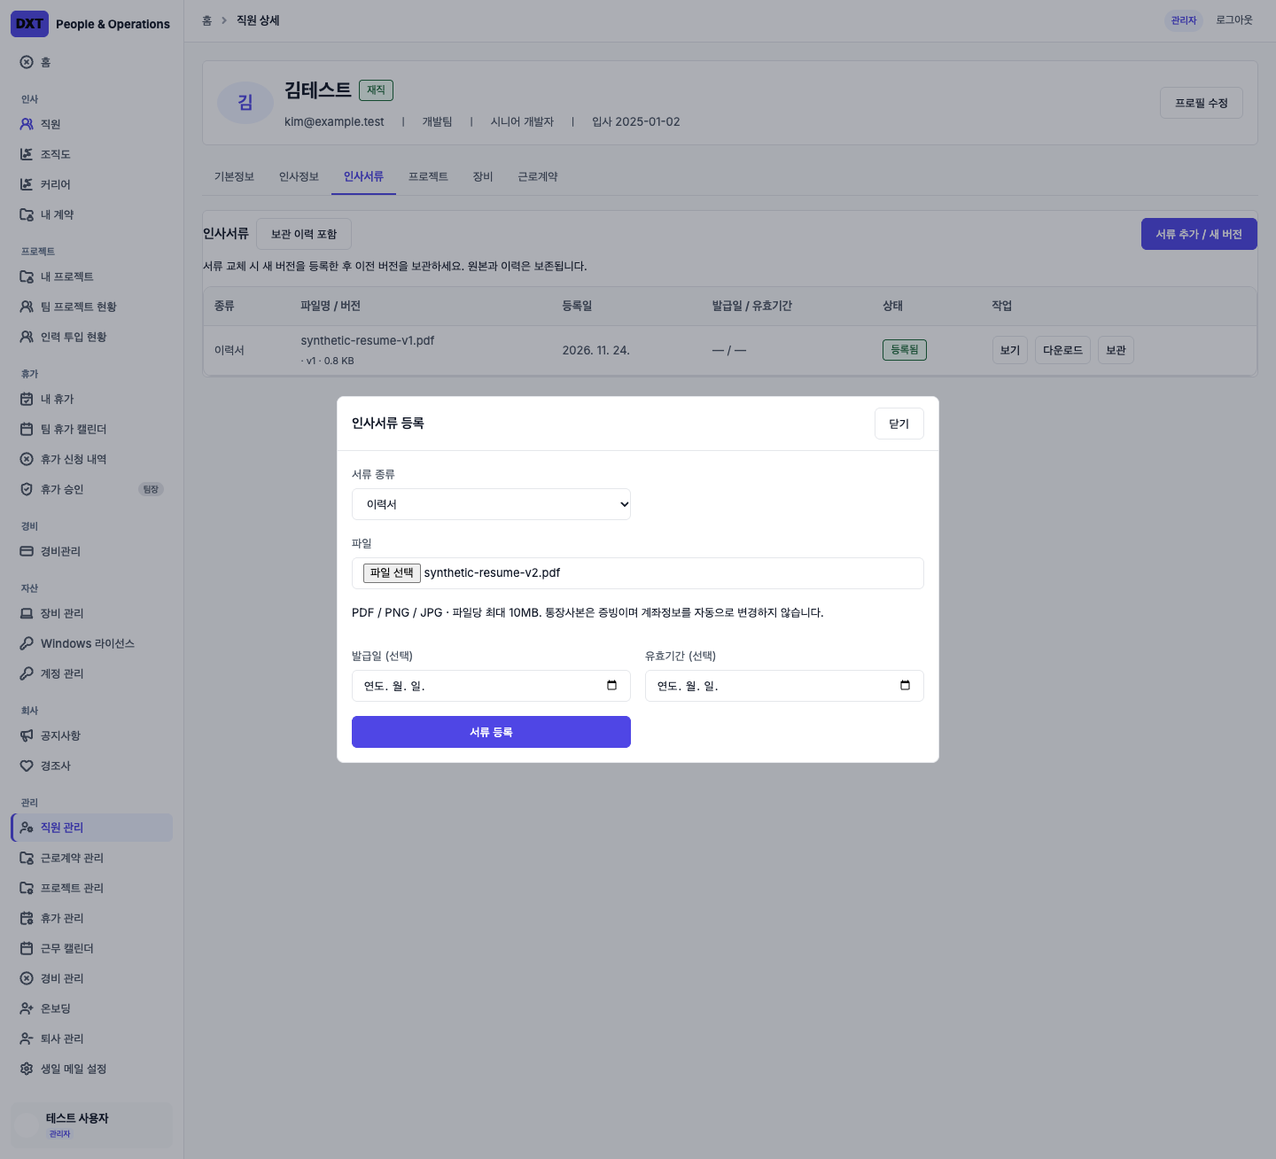
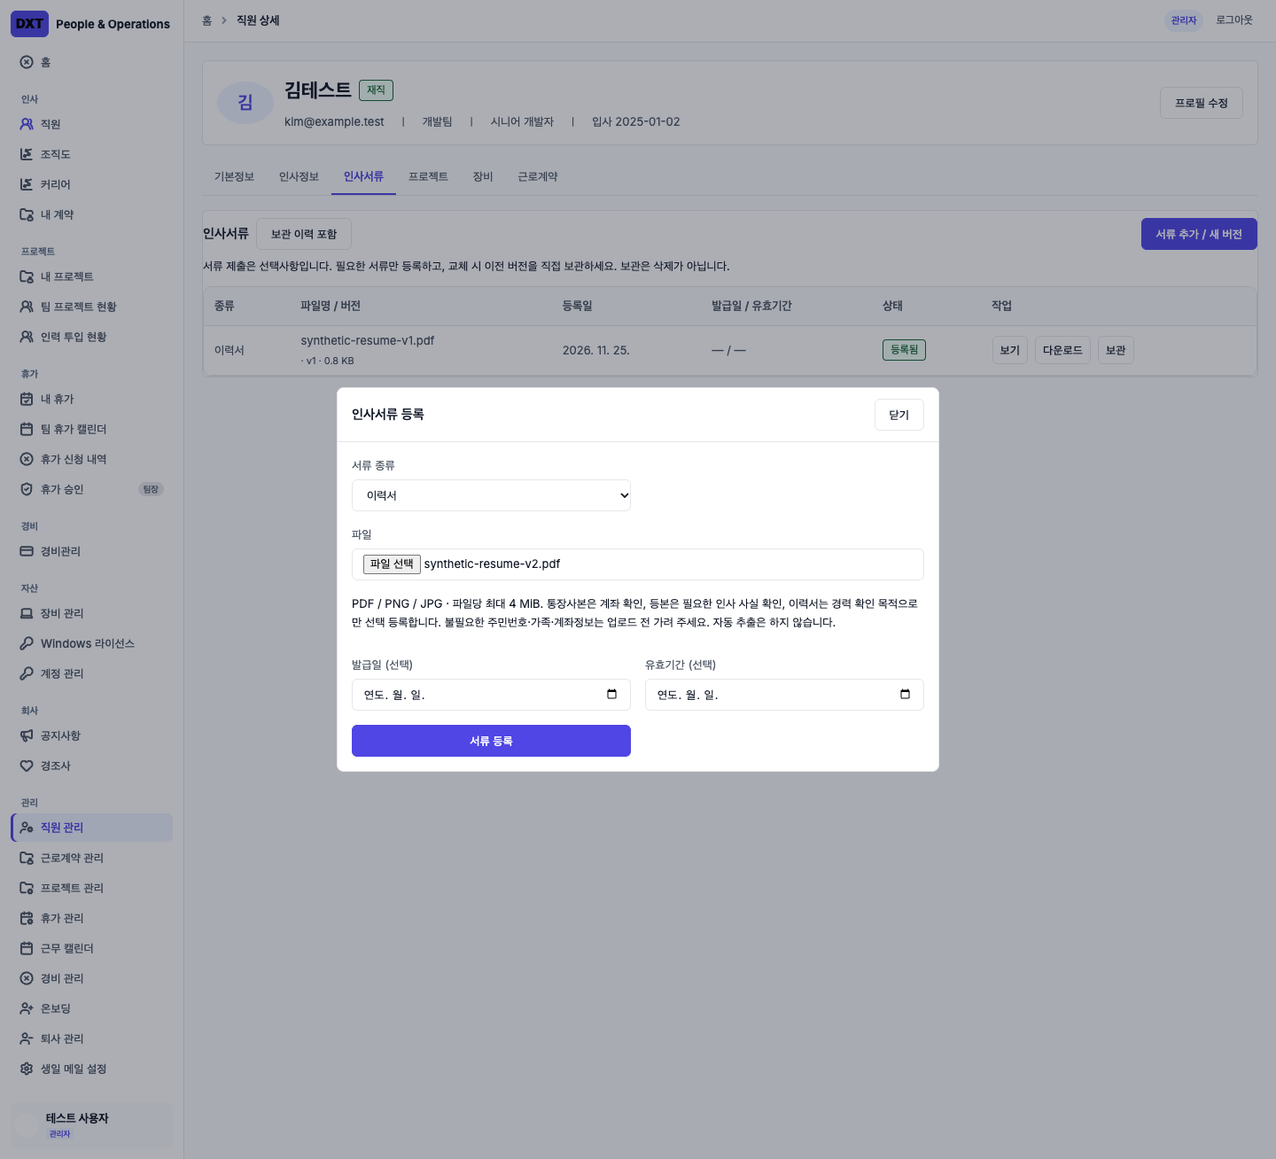
fix: enforce optional HR document collection and 4 MiB boundary

diff --git a/src/components/hr-documents/panel.tsx b/src/components/hr-documents/panel.tsx
@@ -5,19 +5,22 @@ import {useFormStatus} from 'react-dom';
 import {SectionCard,DataTable,StatusTag} from '@/components/ui/primitives';
 import {Modal,WorkToolbar} from '@/components/ui/workspace';
 import {uploadHrDocument,archiveHrDocument} from '@/app/actions/hr-documents';
-import {DOCUMENT_TYPES,type HrDocument} from '@/lib/hr-documents/types';
+import {DOCUMENT_TYPES,MAX_DOCUMENT_BYTES,DOCUMENT_SIZE_MESSAGE,type HrDocument} from '@/lib/hr-documents/types';
 function Submit({children,primary=true}:{children:React.ReactNode;primary?:boolean}){const {pending}=useFormStatus();return <button className={`button ${primary?'primary':''}`} disabled={pending}>{pending?'처리 중…':children}</button>;}
 function Archive({id}:{id:string}){const [state,action]=useActionState(archiveHrDocument,{});return <form action={action}><input type="hidden" name="document_id" value={id}/><Submit primary={false}>보관</Submit>{state.error&&<p role="alert">{state.error}</p>}{state.success&&<p role="status">{state.success}</p>}</form>;}
 export function HrDocumentsPanel({employeeId,documents,manage,history,base}:{employeeId:string;documents:HrDocument[];manage:boolean;history:boolean;base:string}){
  const [open,setOpen]=useState(false);
  return <SectionCard className="hr-documents"><WorkToolbar label="인사서류 작업" actions={manage&&<button className="button primary" onClick={()=>setOpen(true)}>서류 추가 / 새 버전</button>}><h2>인사서류</h2>{manage&&<Link className="button" href={`${base}?tab=documents${history?'':'&history=1'}`}>{history?'현재 서류':'보관 이력 포함'}</Link>}</WorkToolbar>
- <p className="field-help">{manage?'서류 교체 시 새 버전을 등록한 후 이전 버전을 보관하세요. 원본과 이력은 보존됩니다.':'본인에게 공개된 통장사본·주민등록등본·이력서입니다. 변경은 인사 담당자에게 요청해 주세요.'}</p>
+ <p className="field-help">{manage?'서류 제출은 선택사항입니다. 필요한 서류만 등록하고, 교체 시 이전 버전을 직접 보관하세요. 보관은 삭제가 아닙니다.':'본인에게 공개된 통장사본·주민등록등본·이력서입니다. 변경은 인사 담당자에게 요청해 주세요.'}</p>
  <DataTable label="직원 인사서류" head={['종류','파일명 / 버전','등록일','발급일 / 유효기간','상태','작업']}>{documents.map(d=><tr key={d.id}><td>{DOCUMENT_TYPES[d.document_type]}</td><td>{d.filename}<small> · v{d.version} · {(d.byte_size/1024).toFixed(1)} KB</small></td><td>{new Intl.DateTimeFormat('ko-KR',{timeZone:'Asia/Seoul',dateStyle:'medium'}).format(new Date(d.uploaded_at))}</td><td>{d.issued_date||'—'} / {d.expires_at||'—'}</td><td><StatusTag tone={d.archived_at?'neutral':'success'}>{d.archived_at?'보관됨':'등록됨'}</StatusTag></td><td><div className="button-row"><a className="button" target="_blank" rel="noopener noreferrer" href={`/api/hr-documents/${d.id}`}>보기</a><a className="button" href={`/api/hr-documents/${d.id}?download=1`}>다운로드</a>{manage&&!d.archived_at&&<Archive id={d.id}/>}</div></td></tr>)}</DataTable>{!documents.length&&<p className="table-empty">등록된 인사서류가 없습니다.</p>}
  <Modal open={open} onClose={()=>setOpen(false)} title="인사서류 등록"><UploadForm employeeId={employeeId}/></Modal>
  </SectionCard>;
 }
 
 function UploadForm({employeeId}:{employeeId:string}){
- const [state,action]=useActionState(uploadHrDocument,{});
- return <form action={action} className="form-grid hr-document-form"><input type="hidden" name="employee_id" value={employeeId}/><label className="field">서류 종류<select name="document_type">{Object.entries(DOCUMENT_TYPES).map(([v,l])=><option key={v} value={v}>{l}</option>)}</select></label><label className="field">파일<input type="file" name="file" accept="application/pdf,image/png,image/jpeg" required/></label><p className="field-help">PDF / PNG / JPG · 파일당 최대 10MB. 통장사본은 증빙이며 계좌정보를 자동으로 변경하지 않습니다.</p><label className="field">발급일 (선택)<input type="date" name="issued_date"/></label><label className="field">유효기간 (선택)<input type="date" name="expires_at"/></label>{state.error&&<p role="alert" className="form-error">{state.error}</p>}{state.success&&<p role="status" className="success-notice">{state.success}</p>}<Submit>서류 등록</Submit></form>;
+ const [state,action]=useActionState(uploadHrDocument,{}),[clientError,setClientError]=useState('');
+ return <form action={action} onSubmit={event=>{
+  const file=new FormData(event.currentTarget).get('file');
+  if(file instanceof File&&file.size>MAX_DOCUMENT_BYTES){event.preventDefault();setClientError(DOCUMENT_SIZE_MESSAGE);}else setClientError('');
+ }} className="form-grid hr-document-form"><input type="hidden" name="employee_id" value={employeeId}/><label className="field">서류 종류<select name="document_type">{Object.entries(DOCUMENT_TYPES).map(([v,l])=><option key={v} value={v}>{l}</option>)}</select></label><label className="field">파일<input type="file" name="file" accept="application/pdf,image/png,image/jpeg" required/></label><p className="field-help">PDF / PNG / JPG · 파일당 최대 4 MiB. 통장사본은 계좌 확인, 등본은 필요한 인사 사실 확인, 이력서는 경력 확인 목적으로만 선택 등록합니다. 불필요한 주민번호·가족·계좌정보는 업로드 전 가려 주세요. 자동 추출은 하지 않습니다.</p><label className="field">발급일 (선택)<input type="date" name="issued_date"/></label><label className="field">유효기간 (선택)<input type="date" name="expires_at"/></label>{(clientError||state.error)&&<p role="alert" className="form-error">{clientError||state.error}</p>}{state.success&&<p role="status" className="success-notice">{state.success}</p>}<Submit>서류 등록</Submit></form>;
 }

diff --git a/tests/hr-documents.test.ts b/tests/hr-documents.test.ts
@@ -8,7 +8,7 @@ import {asUser,personId} from './domain-fixture';
 import {asService} from './operations-fixture';
 import {colleagueId} from './project-fixture';
 import {validateDocument} from '../src/lib/hr-documents/validation';
-async function setup(){const db=await contractsDatabase();await db.exec(readFileSync('supabase/migrations/20261124134708_employee_hr_documents.sql','utf8'));return db;}
+async function setup(){const db=await contractsDatabase();await db.exec(readFileSync('supabase/migrations/20261124134708_employee_hr_documents.sql','utf8'));await db.exec(readFileSync('supabase/migrations/20261124220933_hr_document_v1_transport_limit.sql','utf8'));return db;}
 async function reserve(db:Awaited<ReturnType<typeof setup>>,employee=personId,type='RESUME',role='designated'){
  const r=await asUser(db,role,tx=>tx.query<{id:string}>("select reserve_hr_document($1,$2,'synthetic.pdf','application/pdf',20,repeat('a',64),null,null) id",[employee,type]));
  const id=r.rows[0].id;
@@ -71,3 +71,14 @@ test('unpublished files stay hidden; finish requires a stored validated object a
   assert.deepEqual((await db.query('select * from storage.objects where name=$1',[personId+'/'+id])).rows,before);
  }
 }finally{await db.close();}});
+test('v1 4 MiB boundary preserves exact PDF bytes and rejects valid 5/10 MiB files before decoding',async()=>{
+ const {syntheticHrPdf}=await import('./hr-document-boundary-fixture');
+ const max=4*1024*1024,bytes=await syntheticHrPdf(max);
+ const valid=await validateDocument(new File([bytes],'synthetic-boundary.pdf',{type:'application/pdf'}));assert.deepEqual(valid.bytes,bytes);
+ for(const size of [max+1,5*1024*1024,10*1024*1024])await assert.rejects(()=>syntheticHrPdf(size).then(b=>validateDocument(new File([b],'synthetic-oversize.pdf',{type:'application/pdf'}))),/4 MiB/);
+ const db=await setup();try{
+  assert.equal((await db.query<{file_size_limit:number}>("select file_size_limit from storage.buckets where id='employee-hr-documents'")).rows[0].file_size_limit,max);
+  for(const size of [max+1,5*1024*1024,10*1024*1024])await assert.rejects(()=>asUser(db,'ceo',tx=>tx.query("select reserve_hr_document($1,'RESUME','size.pdf','application/pdf',$2,repeat('a',64),null,null)",[personId,size])));
+  await asUser(db,'ceo',tx=>tx.query("select reserve_hr_document($1,'RESUME','boundary.pdf','application/pdf',$2,repeat('a',64),null,null)",[personId,max]));
+ }finally{await db.close();}
+});

diff --git a/tests/e2e/hr-documents.spec.ts b/tests/e2e/hr-documents.spec.ts
@@ -57,3 +57,17 @@ test('bankbook, resident copy and private-only other HR files retain own scope a
  await expect(page.getByRole('row').filter({hasText:'synthetic-bank.png'})).toBeVisible();await expect(page.getByRole('row').filter({hasText:'synthetic-resident.jpg'})).toBeVisible();await expect(page.getByText('synthetic-private.pdf')).toHaveCount(0);expect((await context.request.get(privateHref)).status()).toBe(404);
  await expect(page.getByRole('link',{name:'인사정보',exact:true})).toHaveCount(0);
 });
+test('4 MiB original PDF roundtrips; valid 5/10 MiB selection fails locally before Server Action',async({page,context})=>{
+ const {syntheticHrPdf}=await import('../hr-document-boundary-fixture');
+ await loginAs(context,'designated');await page.goto(`/admin/employees/${employee}?tab=documents`);await page.getByRole('button',{name:'서류 추가 / 새 버전'}).click();
+ await expect(page.getByText(/서류 제출은 선택사항/)).toBeAttached();await expect(page.getByText(/불필요한 주민번호·가족·계좌정보/)).toBeVisible();
+ let actions=0;page.on('request',req=>{if(req.headers()['next-action'])actions++;});
+ for(const size of [4*1024*1024+1,5*1024*1024,10*1024*1024]){
+  await page.getByLabel('파일',{exact:true}).setInputFiles({name:'synthetic-oversize.pdf',mimeType:'application/pdf',buffer:await syntheticHrPdf(size)});
+  await page.getByRole('button',{name:'서류 등록',exact:true}).click();await expect(page.locator('.form-error[role=alert]')).toContainText('4 MiB');expect(actions).toBe(0);
+ }
+ const bytes=await syntheticHrPdf(4*1024*1024);
+ await page.getByLabel('파일',{exact:true}).setInputFiles({name:'synthetic-4mib.pdf',mimeType:'application/pdf',buffer:bytes});await page.getByRole('button',{name:'서류 등록',exact:true}).click();await expect(page.getByRole('status')).toContainText('인사서류가 등록되었습니다');await page.getByRole('button',{name:'인사서류 등록 닫기'}).click();
+ const href=(await page.getByRole('row').filter({hasText:'synthetic-4mib.pdf'}).getByRole('link',{name:'다운로드'}).getAttribute('href'))!;
+ const response=await context.request.get(href);expect(response.status()).toBe(200);expect(response.headers()['cache-control']).toBe('private, no-store');expect(await response.body()).toEqual(bytes);
+});

diff --git a/tests/e2e/mock-supabase.ts b/tests/e2e/mock-supabase.ts
@@ -20,7 +20,7 @@ await db.exec(readFileSync('supabase/migrations/20261120124228_expense_grid_work
 await db.exec(readFileSync('supabase/migrations/20261120135814_restore_expense_payment_edit_window.sql','utf8'));
 await db.exec(readFileSync('supabase/migrations/20261123141334_expense_monthly_attachments.sql','utf8'));
 await db.exec(readFileSync('supabase/migrations/20261124125833_expense_payment_cards.sql','utf8'));
-await db.exec(readFileSync('supabase/migrations/20261124134708_employee_hr_documents.sql','utf8'));
+await db.exec(readFileSync('supabase/migrations/20261124134708_employee_hr_documents.sql','utf8'));await db.exec(readFileSync('supabase/migrations/20261124220933_hr_document_v1_transport_limit.sql','utf8'));
 // Synthetic elapsed-payment fixture exercises read-only attachment controls through HTTP.
 await db.exec(`insert into public.expense_claim(id,employee_id,usage_month,status,payment_date)
  values('61000000-0000-4000-8000-000000000026','10000000-0000-4000-8000-000000000001',date_trunc('month',public.expense_today()-interval '4 months'),'SUBMITTED',public.expense_today()-1);

diff --git a/src/lib/hr-documents/validation.ts b/src/lib/hr-documents/validation.ts
@@ -1,9 +1,11 @@
 import {createHash} from 'node:crypto';
 import sharp from 'sharp';
 import {PDFDocument} from 'pdf-lib';
-export const MAX_DOCUMENT_BYTES=10*1024*1024;
+import {MAX_DOCUMENT_BYTES,DOCUMENT_SIZE_MESSAGE} from './types';
+export {MAX_DOCUMENT_BYTES} from './types';
 export async function validateDocument(file:File){
- if(!file.size||file.size>MAX_DOCUMENT_BYTES||!file.name||file.name.length>200||/[\x00-\x1f\x7f/\\]/.test(file.name))throw new Error('파일명과 용량을 확인해 주세요. 파일당 최대 10MB입니다.');
+ if(file.size>MAX_DOCUMENT_BYTES)throw new Error(DOCUMENT_SIZE_MESSAGE);
+ if(!file.size||!file.name||file.name.length>200||/[\x00-\x1f\x7f/\\]/.test(file.name))throw new Error('파일명과 파일 내용을 확인해 주세요.');
  const bytes=Buffer.from(await file.arrayBuffer());
  const extension=file.name.split('.').pop()?.toLowerCase();
  if(file.type==='application/pdf'&&extension==='pdf'&&bytes.subarray(0,5).toString()==='%PDF-'){

diff --git a/src/lib/hr-documents/storage.ts b/src/lib/hr-documents/storage.ts
@@ -1,5 +1,6 @@
 import 'server-only';
 import {createHash} from 'node:crypto';
+import {MAX_DOCUMENT_BYTES} from './types';
 import {operationsService} from '../operations/service';
 // Private object adapter. No public or signed URL, no upsert, no client path.
 export async function uploadHrObject(path:string,bytes:Buffer,mime:string){
@@ -7,6 +8,7 @@ export async function uploadHrObject(path:string,bytes:Buffer,mime:string){
  if(error)throw new Error('파일 저장에 실패했습니다.');
 }
 export async function readHrObject(doc:{storage_path:string;sha256:string;byte_size:number}){
+ if(doc.byte_size>MAX_DOCUMENT_BYTES)throw new Error('서류 용량 한도를 초과했습니다. 인사 담당자에게 문의해 주세요.');
  const {data,error}=await operationsService().storage.from('employee-hr-documents').download(doc.storage_path);
  if(error||!data)throw new Error('파일을 찾을 수 없습니다.');
  const bytes=Buffer.from(await data.arrayBuffer());

diff --git a/src/lib/hr-documents/types.ts b/src/lib/hr-documents/types.ts
@@ -1,3 +1,5 @@
+export const MAX_DOCUMENT_BYTES=4*1024*1024;
+export const DOCUMENT_SIZE_MESSAGE='파일당 최대 4 MiB (4,194,304바이트)입니다. 파일 용량을 줄여 다시 선택해 주세요.';
 export const DOCUMENT_TYPES = {BANKBOOK_COPY:'통장사본',RESIDENT_REGISTRATION_COPY:'주민등록등본',RESUME:'이력서',OTHER_HR:'기타 인사서류'} as const;
 export type DocumentType=keyof typeof DOCUMENT_TYPES;
 export const DOCUMENT_COLUMNS='id,employee_id,document_type,filename,mime_type,byte_size,sha256,issued_date,expires_at,version,uploaded_at,archived_at';

diff --git a/tests/hr-document-boundary-fixture.ts b/tests/hr-document-boundary-fixture.ts
@@ -1,0 +1,7 @@
+import {PDFDocument} from 'pdf-lib';
+/** Valid synthetic PDF padded with permitted trailing whitespace; no personal data. */
+export async function syntheticHrPdf(size:number){
+ const pdf=await PDFDocument.create();pdf.addPage().drawText('SYNTHETIC TRANSPORT BOUNDARY — NO PERSONAL DATA'.replace('—','-'));
+ const content=Buffer.from(await pdf.save());if(size<content.length)throw new Error('Size too small');
+ const bytes=Buffer.alloc(size,32);content.copy(bytes);return bytes;
+}

diff --git a/docs/ISSUE_33_DELIVERY.md b/docs/ISSUE_33_DELIVERY.md
@@ -29,7 +29,7 @@ A private employee-hr-documents bucket has no authenticated/anonymous object pol
 The server uses a server-only service adapter after authorization; no browser upload,
 Storage URL, reusable signed URL or object overwrite is provided. The DB generates
 an employee/document UUID path; the client cannot supply it. Supported PDF/PNG/JPEG
-are limited to 10 MiB each, with filename/extension/MIME/magic and parser/decode checks.
+are limited to 4 MiB (4,194,304 bytes) each, with filename/extension/MIME/magic and parser/decode checks.
 SHA-256 and size are verified again on read. Files retain original bytes.
 
 Reserve/archive RPCs require PRIVATE_HR_ACCESS. Finish is service-role only and checks
@@ -59,19 +59,94 @@ issue33-self-documents.png (synthetic documents only).
 
 ## Hosted staging and remaining limits
 
-No production data or hosted database/storage was accessed or migrated. Hosted staging
+No production data was used and no hosted database/storage was modified. A read-only
+configuration/schema preflight is recorded in STAGING_ACCEPTANCE.md. Hosted staging
 must apply migrations, configure the server-only service key, verify real role sessions,
-Storage rejection and the hosting request-size ceiling (a 10 MiB application limit may
-exceed a provider's request-body limit). Malware scanning, OCR and automatic retention
+Storage rejection and the hosting request-size ceiling (the 4 MiB application limit leaves room for normal multipart fields under the default hosting request limit). Malware scanning, OCR and automatic retention
 are not implemented. Sandbox preview reduces active-document execution in the browser;
 it is not antivirus certification of downloaded documents. Interrupted uploads may
 leave hidden reservations/objects for authorized manual reconciliation; no cleanup cron.
 Preserve database rows, private objects and existing HR encryption keys in backups.
 Google login is unchanged; automatic Gmail and cron remain disabled.
 
-### Local regression result
+### Initial implementation regression result (before review follow-up)
 
 - lint / production build / typecheck: passed.
 - Unit + PostgreSQL/RLS: 94 passed.
 - Full Chrome browser suite: 78 passed; affected employee/document tests rerun after
   the final upload-form state reset. GitHub CI status is recorded in the PR.
+
+
+## Review follow-up — optional collection and 4 MiB v1
+
+PR #34 product decision supersedes the earlier 10 MiB requirement. HR documents are
+optional, particularly bankbook/resident copies: no onboarding gate or bulk collection.
+The UI states the purpose (account verification / necessary HR facts / career evidence)
+and asks the uploader to mask unnecessary resident, family and account information.
+No OCR or extraction. Only synthetic files may be used for testing.
+
+`20261124220933_hr_document_v1_transport_limit.sql` follows the initial document
+migration. Client preflight, server validator, DB byte-size constraint and bucket now
+agree on 4,194,304 bytes. Original bytes remain unchanged. Client rejects oversized
+files before a Server Action request; server/DB independently reject bypasses. PDF
+responses are bounded by the same metadata limit and verify actual size/hash.
+The global Server Action allowance remains unchanged for unrelated expense workflows.
+
+Migration preflight (trusted operator, counts only): check for employee_hr_document
+rows with byte_size > 4194304. The migration intentionally fails transactionally if
+any exist; it does not delete/truncate them. Resolve with the authorized HR owner and
+approved export/replacement/retention instructions before retrying. Do not turn on
+unbounded downloads or public Storage as a workaround.
+
+### Recovery, archive and retention
+
+New same-type uploads do NOT automatically archive older records. HR reviews the new
+version, then explicitly archives obsolete versions. Archive removes normal/self
+visibility but is not erasure and is not a promise of indefinite retention.
+
+For failed reservations, a trusted operator inventories ID/path/hash/size/uploader/time
+without reading sensitive content, reconciles object existence against the DB row and
+application audit, and records an incident/recovery reference. A verified object may
+be re-published only after current HR authorization, exact size/hash/MIME/decode checks
+and audit; otherwise retry as a new upload and retain the incomplete reservation for
+approved reconciliation. No browser recovery endpoint or direct client finish grant.
+
+An eventual purge requires an agreed purpose-specific retention schedule/legal basis,
+HR owner approval, legal-hold check, preview manifest and dual confirmation. Proposed
+workflow: append PURGE_APPROVED event (actor/reason/IDs, no content), delete only the
+approved object versions through a trusted worker, append PURGE_COMPLETED or
+PURGE_FAILED with operation ID, and retain minimal non-content audit/tombstone records.
+Account for backups and failed partial operations before claiming erasure. Current
+immutable metadata/event guards must not be bypassed ad hoc: a reviewed additive
+migration/service-only procedure is required to introduce this workflow. Retention
+periods, legal basis and backup erasure policy are company decisions still pending;
+no automatic destructive purge, cron or indefinite-storage commitment is introduced.
+
+### Synthetic hosted acceptance (separate gate)
+
+On the exact PR preview with confirmed dedicated staging Auth/DB/Storage:
+1. Use dedicated synthetic employee A/B, Team Leader, ordinary ADMIN, designated HR ADMIN.
+2. Generate valid synthetic PDFs at 4 MiB, 4 MiB + 1 byte, 5 MiB and 10 MiB using
+   tests/hr-document-boundary-fixture.ts. Never upload real bankbook/resident records.
+3. Upload exactly 4 MiB as authorized HR, download/preview via private proxy, compare
+   original byte count/SHA-256 and verify private,no-store and nosniff headers.
+4. Select each oversized file: clear 4 MiB error, no upload request in browser network.
+   Independently probe the reservation RPC with oversized metadata: DB constraint denial.
+5. A can read own allowed file; B/Team Leader/ordinary ADMIN cannot fetch A's UUID/path.
+   Direct Storage is denied for all browser roles, including HR. Archive then verify own
+   denial and HR history access; new version must not alter old bytes.
+6. Record deployment/HEAD, migration order, synthetic identity labels, expected/actual
+   outcomes and sanitized evidence. No tokens, file contents or real identifiers in Git.
+
+Local boundary tests do not establish hosted acceptance; record live access blockers
+and unexecuted cases separately. A successful Vercel build is not authenticated UAT.
+
+### Review follow-up local verification
+
+- lint, production build and typecheck passed; unit/DB **95/95 passed**.
+- All four HR-document browser scenarios passed, including the exact 4 MiB roundtrip
+  and local rejection of 4 MiB + 1 byte / 5 MiB / 10 MiB valid PDFs.
+- The full 79-case local browser run did not complete: macOS disk exhaustion (`ENOSPC`)
+  interrupted trace/context writes; a trace-disabled retry also failed creating its
+  result directory. Do not count this as a full local pass. GitHub CI runs the complete
+  suite independently; exact result/HEAD will be recorded in the PR.

diff --git a/docs/STAGING_ACCEPTANCE.md b/docs/STAGING_ACCEPTANCE.md
@@ -93,3 +93,24 @@ The historical Gmail-send/cron items in Issue #14 are superseded by Issue #15 an
 - `npm run build` and `npm run typecheck`: PASS.
 - Full `npm run test:e2e` with installed Chrome: **47 passed**, including fixture PKCE login, private Storage test-double flows, scoped leave decisions and disabled cron behavior.
 - Browser fixtures executed real repository SQL/RLS in local PGlite, not hosted Supabase Auth/Storage. Test-generated screenshot changes were discarded because this PR changes documentation only.
+
+## Read-only hosted preflight — 2026-11-25 (Issue #35 / PR #34)
+
+- Connected Supabase ref remains `uqwnxlxzcoxbniockizv`; read-only aggregate checks found
+  2 Auth users / Google identities, 2 linked employee identities, 20 employee rows.
+  Existing rows are not assumed synthetic and were not used/changed for testing.
+- Membership coverage: CEO and designated PRIVATE_HR_ACCESS ADMIN only. Independent
+  employee A/B, Team Leader and ordinary ADMIN test sessions are not available.
+- Hosted migrations reach `20261124125833_expense_payment_cards.sql`; employee HR
+  document table/bucket and both document migrations are not yet present.
+- Public-table RLS remains enabled; existing buckets remain private. Mail enqueue/claim
+  remains denied to authenticated and service_role.
+- PR #34 preview at `48877fd6bcef8df171c968e34186a8e8d256bb1a` is READY, but the 8
+  required Vercel environment variables exist only in production scope, not preview.
+  The production-scoped Supabase hostname matches this staging ref. A READY deployment
+  is therefore not evidence of authenticated hosted preview acceptance.
+- No remote mutation, real file read, credential exposure or real employee test occurred.
+- **Hosted acceptance remains pending**: branch-scoped preview configuration/OAuth
+  callback, reviewed migrations, and dedicated Google test identities with human login/
+  consent. Provider connectors are accessible; account reconnection is not needed.
+  Code/local synthetic regression may proceed independently; do not mark this gate green.
